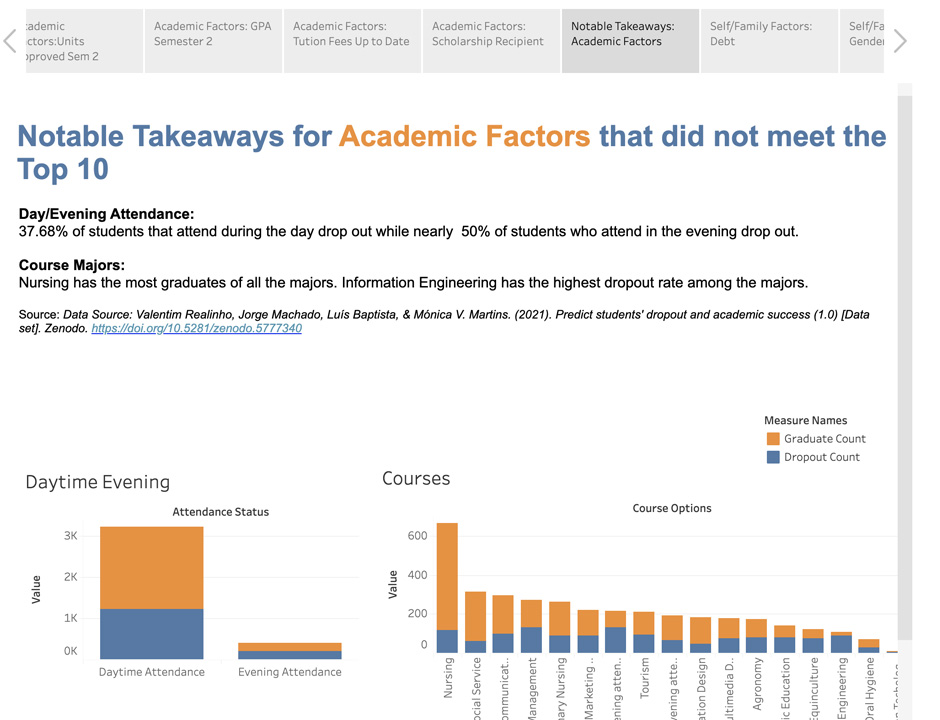
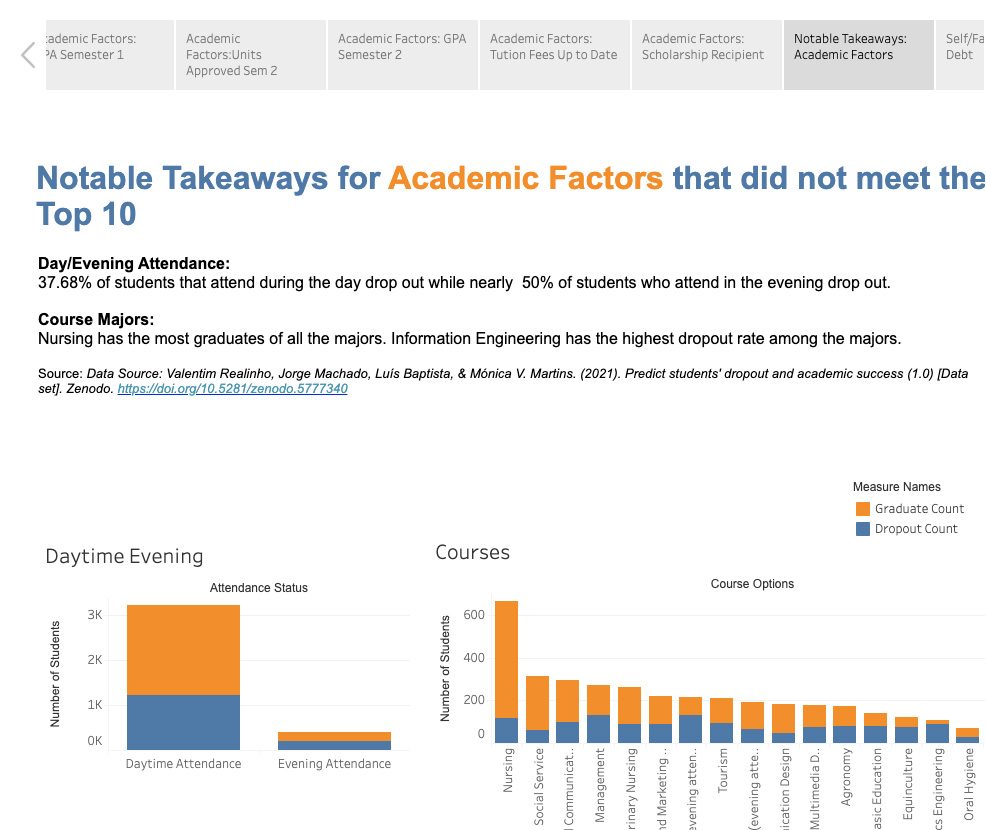
Updated fixed the word value and fixed labels

diff --git a/index.html b/index.html
@@ -147,7 +147,7 @@ Below are a few samples that highlight my work. Feel free to take a look around!
           <p class="project-card__description">
             Tableau presentation for capstone project entitled, "Predicting Students Dropout Risk Based on Academic, Familial and Socio-Economic Factors."
           </p>
-          <a href="https://cj-franklin.github.io/university/" class="button-class">Click to view the presentation</a>
+          <a href="https://cj-franklin.github.io/university" class="button-class">Click to view the presentation</a>
         </div>
       </div>
       <div class="row project-card"  data-toggle="modal" data-target="#portfolioModal" data-portfolio-tag="landing-pages">
